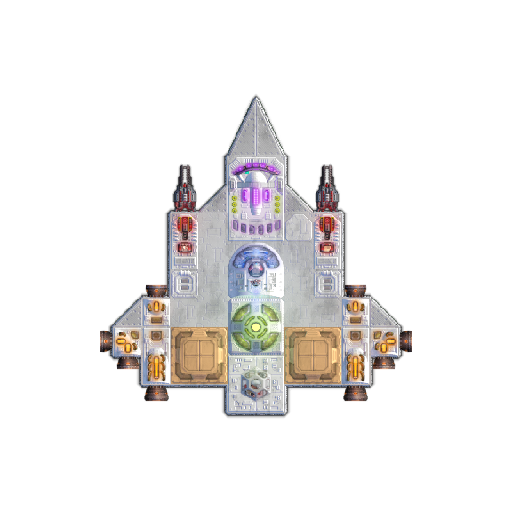
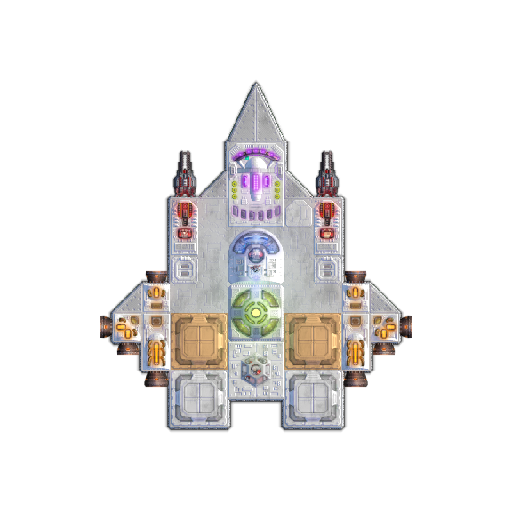
fix(tech): bays that vaults take move outside the hull; presets rebuilt
Starters keep their normal storage. Per-tile vault move in tests, new screen scripts.

Changed region(s): [[0.1875, 0.1562, 0.8125, 0.8438]]

diff --git a/src/HotCargo/Tech/TechAutotest.cs b/src/HotCargo/Tech/TechAutotest.cs
@@ -112,6 +112,28 @@ static class TechAutotest
         Autotest.Fields["decayed"] = () => TechDecay.Destroyed;
         Autotest.Fields["decayleft"] = () => TechDecay.Exposed(Active())?.SecondsLeft ?? -1;
         Autotest.Fields["decaystacks"] = () => Active().State.Tech.Decay.Count;
+        // Spec 1549: 1 when the vanilla tooltip of the first normal storage tile with tech on the player ship has the decay line.
+        Autotest.Fields["decaytip"] = () =>
+        {
+            var tile = Vaults.StorageTiles(PlayerShip()).FirstOrDefault(t => t.ResourceType == Vaults.TechId && t.Resources > 0);
+            if (tile is null) return 0;
+            string tip = ((Cosmoteer.Game.Gui.IGameObjectToolTip)tile).ToolTipText.Text;
+            return tip.EndsWith("\n" + TechDecay.TileLine(Active(), TechDecay.Key(tile), inVault: false), StringComparison.Ordinal) ? 1 : 0;
+        };
+        // vault select: selects the first vault of the player ship, so the parts card shows its contents (spec 1545).
+        Autotest.Commands["vaultselect"] = _ =>
+        {
+            var part = Vaults.VaultParts(PlayerShip()).FirstOrDefault() ?? throw new InvalidOperationException("no vault");
+            PlayerShip().Sim.PlayerInput.SelectParts([part]);
+        };
+        // storageselect: selects the first normal storage part with tech on the player ship (spec 1545).
+        Autotest.Commands["storageselect"] = _ =>
+        {
+            var tile = Vaults.StorageTiles(PlayerShip()).FirstOrDefault(t => t.ResourceType == Vaults.TechId && t.Resources > 0) ?? throw new InvalidOperationException("no tech in storage");
+            PlayerShip().Sim.PlayerInput.SelectParts([tile.Grid.Part]);
+        };
+        // resourcesview on|off: opens the vanilla Resources view, where the vault fill toggles show (spec 1546).
+        Autotest.Commands["resourcesview"] = arg => Active().Game.Gui.ShipGui.ResourcesToolbox.SelfActive = arg == "on";
         // Spec 1550: the heat panel shows the decay line.
         Autotest.Fields["decaypanel"] = () => TechDecay.PanelLine(Active()) is { } line && Ui.HeatPanel.TechText.Contains(line) ? 1 : 0;
     }
@@ -294,9 +316,12 @@ static class TechAutotest
             var ship = PlayerShip();
             var to = OutsideVault() ?? throw new InvalidOperationException("vault move needs vault outside first");
             var from = Vaults.OnShip(ship).FirstOrDefault(g => g != to && g.Resources == g.MaxResources) ?? throw new InvalidOperationException("no full vault");
-            TypedResourceGrid.ResourceTile source = from.First(), sink = to.First();
-            var id = MPMoveResourcesInput.GetJobOwner(source, sink, game.LocalPlayerIndex).Jobs.AllocLocalJobID();
-            game.NetManager.EnqueueInput(new MPMoveResourcesInput(source, sink, from.Resources, id, sticky: true));
+            // One input for each tile, like the player drags each stack (one unit per tile, spec 1540).
+            foreach (var (source, sink) in from.Where(t => t.Resources > 0).Zip(to.Where(t => t.Resources == 0)))
+            {
+                var id = MPMoveResourcesInput.GetJobOwner(source, sink, game.LocalPlayerIndex).Jobs.AllocLocalJobID();
+                game.NetManager.EnqueueInput(new MPMoveResourcesInput(source, sink, source.Resources, id, sticky: true));
+            }
             Log.Info($"AUTOTEST vault move {from.Resources} from {from.Part!.Location} to {to.Part!.Location}");
             return;
         }

diff --git a/src/HotCargo/Tech/StartingVault.cs b/src/HotCargo/Tech/StartingVault.cs
@@ -75,6 +75,7 @@ internal static class StartingVault
         var placed = new List<IntVector2>();
         var center = Center2(ship);
         IntVector2 size = vault.Size;
+        var moved = new List<PartRules>();
         foreach (var bay in StorageParts(ship))
         {
             if (placed.Count == count) break;
@@ -87,6 +88,7 @@ internal static class StartingVault
             Place(ship, vault, spots, corridors, count, placed, allowCell);
             // No vault on the bay's tiles: the bay goes back, so the design keeps its storage.
             if (placed.Count == before) PutBack(ship, grabbed.Part, grabbed.HadCrewPath);
+            else moved.Add(grabbed.Part.Rules);
         }
         if (placed.Count < count)
         {
@@ -98,6 +100,10 @@ internal static class StartingVault
             Place(ship, vault, spots.OrderBy(r => Distance2(r, center)).ThenBy(r => r.Y).ThenBy(r => r.X).ToList(), corridors, count, placed, allowCell);
         }
         if (placed.Count < count) throw new NoRoomException($"room inside the hull for {placed.Count} of {count} vaults with a crew path");
+        // Spec 1542: a bay that a vault took goes to a free spot outside the hull, so the design keeps its normal storage
+        // (a starter needs it for steel and cargo). Storage outside the hull is cheaper to lose than a vault.
+        foreach (var rules in moved)
+            if (PlaceOutside(ship, rules, requireCrewPath: true) is null) Log.Info($"vaults: no spot with a crew path outside the hull for {rules.ID}; the design has less storage");
         return placed;
     }
 

diff --git a/src/HotCargo/Dev/Autotest.cs b/src/HotCargo/Dev/Autotest.cs
@@ -464,12 +464,14 @@ public static class Autotest
         Commands["defaultspeed"] = arg => { _defaultSpeed = float.Parse(arg, CultureInfo.InvariantCulture); _speedApplied = null; };
         Commands["newgame"] = arg =>
         {
-            // arg: [map size index, or "run" / nothing for the Hot Cargo run map] [starter ship index, default 0].
+            // arg: [map size index, or "run" / nothing for the Hot Cargo run map] [starter ship index, default 0] [vanilla: the vanilla
+            // file of that starter from Data/builtin_ships/Starter, without Tech Vaults (spec 1552)].
             var rules = GameApp.Rules.CareerMode;
             var args = arg.Split(' ', StringSplitOptions.RemoveEmptyEntries);
             string map = args.Length > 0 ? args[0] : "run";
             int mapSize = map == "run" ? Journey.JourneyArea.RunMapSizeIndex() : int.Parse(map, CultureInfo.InvariantCulture);
             ShipFile ship = rules.StarterShips[args.Length > 1 ? int.Parse(args[1], CultureInfo.InvariantCulture) : 0].Ship;
+            if (args is [_, _, "vanilla"]) ship = new ShipFile(Paths.DataFolder / "builtin_ships" / "Starter" / Path.GetFileName((string)ship.FilePath));
             // The game's default levels, not the player's saved choices: test slots start with an empty settings file.
             int combat = Array.FindIndex(rules.CombatDifficultyLevels, l => l.IsDefault);
             int econ = Array.FindIndex(rules.EconDifficultyLevels, l => l.IsDefault);

diff --git a/src/HotCargo/Tech/TechDecay.cs b/src/HotCargo/Tech/TechDecay.cs
@@ -96,7 +96,7 @@ public static class TechDecay
 
     static string ShipKey(Ship ship) => ((uint)ship.UniqueID).ToString();
     static string Key(TypedResourceGrid.ResourceTile tile) => $"v{ShipKey(tile.Grid.Ship!)}:{tile.ShipCell.X},{tile.ShipCell.Y}";
-    static string Key(FlexResourceGrid.ResourceTile tile) => $"s{ShipKey(tile.Grid.Ship!)}:{tile.ShipCell.X},{tile.ShipCell.Y}";
+    internal static string Key(FlexResourceGrid.ResourceTile tile) => $"s{ShipKey(tile.Grid.Ship!)}:{tile.ShipCell.X},{tile.ShipCell.Y}";
     static string Key(CrewSoul crew) => $"c{(uint)crew.UniqueID}";
 
     static string? TileKey(object? end) => end switch

diff --git a/spec/39-one-tile-tech-vault.md b/spec/39-one-tile-tech-vault.md
@@ -3,7 +3,7 @@
 The vault was one tile until requirement 1540 made it 2×2. Code: `src/HotCargo/Tech` (`StartingVault`, `NewGameCheck`, `VaultDesigns`, `StartingResearch`, `Vaults`, `VaultDropPatch`, `DerelictVaultStasisPatch`, `TechMarkers`, `HunterGrab`). Part rules: `mod/tech/tech_vault.rules`. Numbers: the `Tech` tunables section and the part rules.
 
 440. The Tech Vault has one size and no tiers or upgrades. Players decide how many vaults to build, where to put them and how to defend them with hull, armor and shields. Hunters find vaults by the part ID (requirement 34), the vault outline (UX.md H6) marks every vault, and the loss rule counts the tech in all vaults (requirement 9).
-441. Vault placement in a design (requirement 1016): vaults go only inside the hull, and only where crew can walk to them. Vanilla storage parts (one with a flexible storage grid), smallest first and nearest to the ship center first, go like a part that the player grabs: corridor tiles take their place. Spots on their tiles come first; spots that cover fewer door tiles of the storage part come first, so a walkway through the room stays. When none of its tiles gets a vault, the storage part goes back, so the design keeps its storage. Then come spots of corridor tiles (the part that the game leaves on each tile of a grabbed part, `CreatePartPerTileWhenGrabbed`) and empty tiles inside the hull, nearest to the ship center first (requirement 1542). A vault goes on a spot only when the game adds its doors like the build tool, crew can walk to it from crew quarters, and every part that had a crew path keeps it. A vault never goes outside the hull. A design with too few such tiles stays as it was, and the report lists it. If crew still cannot walk to a starting vault, a notice at run start asks the player to add a door. On the presets, the vaults (2 for the default 8 units) replace storage bays. The autotest `tech-design-vaults` checks the placement on each vanilla starter and that an unused bay goes back. The autotests `tech-start` and `tech-outside` check the vault count, design validity and crew paths to every vault and part. Screenshots: `docs/screenshots/vault-start-model-l.jpg`, `vault-start-model-m.jpg`, `vault-no-tech.jpg` and `vault-crates.jpg` (script `tests/screens/vault.txt`), and `docs/screenshots/starter-<model>-before.jpg` / `-after.jpg` for each preset.
+441. Vault placement in a design (requirement 1016): vaults go only inside the hull, and only where crew can walk to them. Vanilla storage parts (one with a flexible storage grid), smallest first and nearest to the ship center first, go like a part that the player grabs: corridor tiles take their place. Spots on their tiles come first; spots that cover fewer door tiles of the storage part come first, so a walkway through the room stays. When none of its tiles gets a vault, the storage part goes back; when a vault takes it, it goes outside the hull (requirement 1542). Either way the design keeps its storage. Then come spots of corridor tiles (the part that the game leaves on each tile of a grabbed part, `CreatePartPerTileWhenGrabbed`) and empty tiles inside the hull, nearest to the ship center first (requirement 1542). A vault goes on a spot only when the game adds its doors like the build tool, crew can walk to it from crew quarters, and every part that had a crew path keeps it. A vault never goes outside the hull. A design with too few such tiles stays as it was, and the report lists it. If crew still cannot walk to a starting vault, a notice at run start asks the player to add a door. On the presets, the vaults (2 for the default 8 units) replace the storage bays, and the bays sit outside the hull. The autotest `tech-design-vaults` checks the placement on each vanilla starter and that an unused bay goes back. The autotests `tech-start` and `tech-outside` check the vault count, design validity and crew paths to every vault and part. Screenshots: `docs/screenshots/vault-start-model-l.jpg`, `vault-start-model-m.jpg`, `vault-no-tech.jpg` and `vault-crates.jpg` (script `tests/screens/vault.txt`), and `docs/screenshots/starter-<model>-before.jpg` / `-after.jpg` for each preset.
 442. A vault holds 4 units, one per tile, and its storage art shows each unit: a tile with tech shows one item (`StackSprites` `processor_stack_1`; vanilla picks sprite `(units - 1) / ResourcesPerStackSprite`, `TypedResourceGrid.UpdateSprite`). A crate holds 1 unit (`MaxPerNugget` = 1). A destroyed vault drops or burns only its own units (requirement 445); other vaults keep theirs. The vault health (12,000) and cost (32 steel) are part rules.
 443. **Loss timer.** When the fleet tech count reaches 0 and the count is certain (requirement 12), a timer of `LossGraceSeconds` (default 180 s) starts. A toast says so, and the heat panel shows "NO TECH, run lost in m:ss" and a reason in place of the tech line. Tech back before the end (crew pick up crates, an event, a friendly ship returns tech) stops the timer, and the run goes on. At the end the run is lost. The timer advances in the sim tick from sim state only; the run state saves it (`SecondsWithoutTech`, `Tech.LossTimerRunning`, `Tech.LossTimerReason`), and the integrity hash includes its time. API for other areas: `Tech.LossTimer.Start(run, reason)` starts it with a reason, or changes the reason of a running timer; `IsRunning(run)` and `SecondsLeft(run)`. The autotest `tech-timer` checks it; the co-op step `tech.trade-loss` checks the loss for every player.
 444. **Tech markers.** The vanilla object indicators (zoomed-out map blips and off-screen arrows) show where tech is in the current system: a "TECH n" line on the blip of each human ship with tech in its vaults or normal storage ("n DECAYING" after it for normal storage, requirement 1550), and an indicator with the Stolen Tech icon on each tech crate (nugget) in space, on screen and off screen. Other areas register ships that hold tech for the players with `Tech.TechMarkers.RegisterHolders(source)`; their blips get the same line. `TechMarkers` (default on) turns the markers off. GUI only: the markers never change the sim.
@@ -31,7 +31,7 @@ A co-op player could not start: the co-op screen picks ships from the Ship Libra
 
 1470. **Offer.** In a career new-game screen (single player or co-op), a ship that the player picks from the Ship Library and whose vaults hold less than the starting tech (requirements 1010, 1011) shows the dialog "Fit Tech Vaults" / "Start without" / "Cancel" before the screen takes it. It names the ship, the tech to hold, the tech that its vaults hold and the vaults it needs, with the warning of requirement 1552. Start without picks the ship as it is. Cancel picks nothing. A ship of a class that a career does not allow goes on to the vanilla check unchanged. The hook is the result of the Ship Library dialog, so both screens keep their own selection code.
 1471. **Vanilla starters.** A pick from `Data/builtin_ships/Starter` whose file name matches a career `StarterShips` entry takes that entry's vault preset (requirement 1017) at once, without the dialog. The list comes from `StarterShips`, not from code.
-1472. **Fit.** "Fit Tech Vaults" loads the design without a game and builds vaults for the starting tech with the placement of requirement 441: storage space first, then corridor tiles, only inside the hull and with crew paths. The design must stay valid and its vaults must hold the starting tech.
+1472. **Fit.** "Fit Tech Vaults" loads the design without a game and builds vaults for the starting tech with the placement of requirements 441 and 1542: storage space first (the bays go outside the hull), then corridor tiles, only inside the hull and with crew paths. The design must stay valid and its vaults must hold the starting tech.
 1473. **Copy.** The fitted design goes to `Saved Ships/Hot Cargo/<name>.ship.png` with the game's Save Ship code, and the screen takes that file. The source design does not change. A later fit of the same name replaces the copy.
 1474. **Starter check.** When the main menu first shows, every career `StarterShips` entry must be a file in `mod/tech/starters`, and every file there must replace an entry. Rules actions cannot loop over a list, so `mod/tech/actions.rules` replaces the entries by index. A mismatch (another game version with other starters) logs an error and shows a dialog that names each problem. A `Replace` action whose path does not exist already stops the mod load with the game's own error, because the actions do not set `IgnoreIfNotExisting`.
 1475. **Failure.** A hull with too little room, or a design that is not valid after the vaults, shows a dialog with the reason and the advice to add vaults in the ship editor. The screen takes nothing.

diff --git a/spec/58-tech-in-storage-and-decay.md b/spec/58-tech-in-storage-and-decay.md
@@ -8,7 +8,7 @@ The 1x1 vault of 2 units read as a corner of a storage bay, and 4 of them filled
 
 1540. **Size.** The Tech Vault is 2×2 and holds 4 units, one per tile (`GridRect` 2×2, Stolen Tech `MaxStackSize` = 1). The code reads the capacity from the vault grid, never from a constant. It has 12,000 health and costs 32 steel: the same per tile as the 1x1 vault (3,000 health, 8 steel). Breaking change: designs and saves with the old 1x1 vault do not load as before; there is no migration.
 1541. **Vault count from data.** The vaults that a ship needs for the starting tech are `StartingTechUnits` / units per vault, rounded up (`TechModel.VaultsNeeded`; default 8 / 4 = 2). The design tool (requirement 1016), Fit Tech Vaults (requirement 1472), the ship pick warning (requirement 1552) and the tests use this one rule.
-1542. **Placement.** A 2×2 vault goes on a spot whose tiles are all corridor tiles or empty tiles inside the hull (each side of an empty tile is a part or another tile of the spot). Storage bays come first, smallest first; each one goes like a grabbed part, vaults go on its tiles (spots that cover fewer door tiles of the bay first), and a bay that gets no vault goes back. Then come spots anywhere inside the hull, nearest to the ship center first. The crew path rules of requirement 441 hold for every vault.
+1542. **Placement.** A 2×2 vault goes on a spot whose tiles are all corridor tiles or empty tiles inside the hull (each side of an empty tile is a part or another tile of the spot). Storage bays come first, smallest first; each one goes like a grabbed part, vaults go on its tiles (spots that cover fewer door tiles of the bay first), and a bay that gets no vault goes back. Then come spots anywhere inside the hull, nearest to the ship center first. A bay that a vault took goes to a free spot outside the hull where crew can walk to it (`StartingVault.PlaceOutside`), so the design keeps its normal storage: the vanilla starters have only 8 storage tiles, and a starter without storage could hold no steel or cargo. Storage outside the hull is cheaper to lose than a vault. The crew path rules of requirement 441 hold for every vault.
 
 ### Tech in normal storage
 
